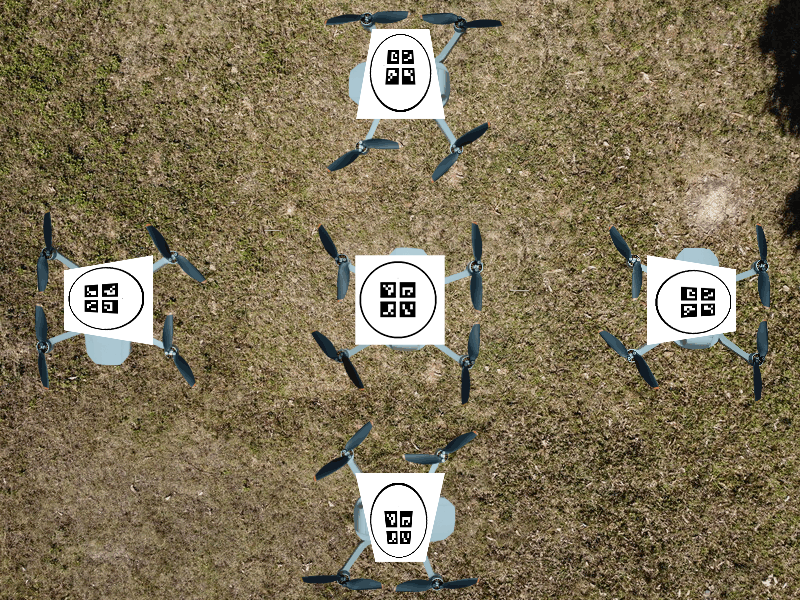
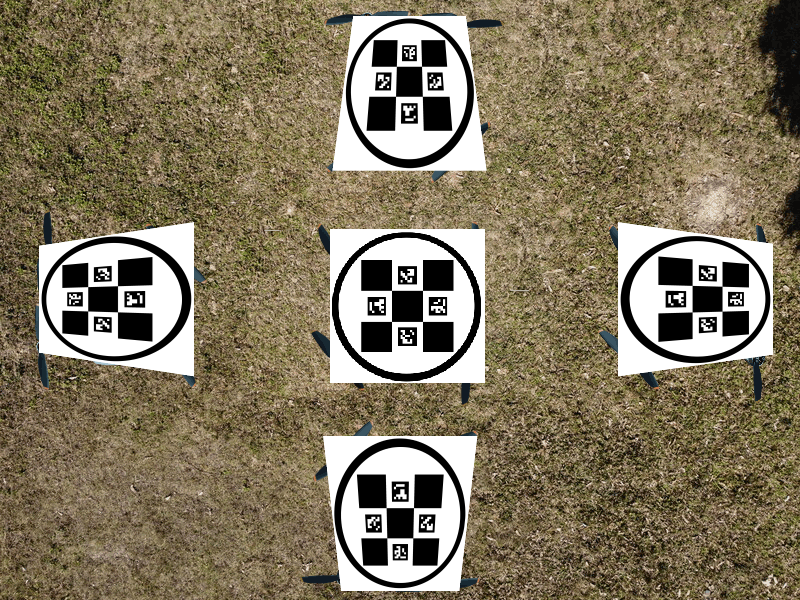
fix

diff --git a/main.cpp b/main.cpp
@@ -1,12 +1,13 @@
 #include <iostream>
+#include <Eigen/Core>
+#include <Eigen/Geometry>
 #include <opencv2/aruco/charuco.hpp>
 #include <opencv2/aruco.hpp>
 #include <opencv2/aruco/dictionary.hpp>
-#include <opencv2/core/core.hpp>
 #include <opencv2/imgproc/imgproc.hpp>
-#include <opencv2/core/types_c.h>
 #include <opencv2/highgui/highgui.hpp>
 #include <opencv2/calib3d.hpp>
+#include <opencv2/core/eigen.hpp>
 #include "ellipse.h"
 #include "aamed/FLED.h"
 
@@ -15,6 +16,41 @@
 using namespace std;
 using namespace cv;
 using namespace dnn;
+
+
+
+double fx = 1518.20343;
+double fy = 1518.20455;
+double cx = 1225.37396;
+double cy = 706.10526 ;
+double k1 = 0.11958819;
+double k2 = 0.08017163;
+double k3 = -0.57926243;
+double p1 = 0.00323947;
+double p2 = -0.00172068;
+// 内参矩阵
+cv::Mat cameraMatrix = (cv::Mat_<float>(3, 3) <<
+                                                fx, 0.0, cx,
+                                                0.0, fy, cy,
+                                                0.0, 0.0, 1.0);
+// 畸变矩阵
+cv::Mat distCoeffs = (cv::Mat_<float>(5, 1) << k1, k2, p1, p2, k3);
+/*************************************预处理******************************************************/
+// 加载用于生成标记的字典。
+Ptr<cv::aruco::Dictionary> dictionary = getPredefinedDictionary(cv::aruco::DICT_6X6_100);
+// board对象指针，在后面有create函数来实际创建
+// 下面这些参数需要用来计算相机位姿
+float squareLength = 0.025;
+float markerLength = 0.015;
+float markerSeparation = 0.005;
+cv::Ptr<cv::aruco::GridBoard> board =  cv::aruco::GridBoard::create(
+        3,             //每行多少个Marker
+        3,             //每列多少个Marker
+        markerLength,          //marker长度, m
+        markerSeparation,           //marker之间的间隔, m
+        dictionary);   //字典
+
+
 
 void siftTest() {
     int64 t1, t2;
@@ -188,6 +224,7 @@ void AAMED_Fled(Mat &imgC, Mat &result, vector<Mat> &results) {
 
     cv::RotatedRect temp;
     Mat mask = Mat::zeros(imgC.size(), CV_8UC1);
+    //results.clear();
     for (int i = 0; i < aamed.detEllipses.size(); i++) {
         Mat mask_temp = Mat::zeros(imgC.size(), CV_8UC1);
         Mat result_temp;
@@ -214,7 +251,6 @@ void AAMED_Fled(Mat &imgC, Mat &result, vector<Mat> &results) {
 
 vector<Mat> generateAruco(int nums, int pixSize=200, int border=1) {
     vector<Mat> markerImages;
-    Ptr<cv::aruco::Dictionary> dictionary = aruco::getPredefinedDictionary(cv::aruco::DICT_4X4_50);
     for (int i = 0; i < nums; ++i) {
         Mat tempImage;
         aruco::drawMarker(dictionary, i, pixSize, tempImage, border);
@@ -225,13 +261,21 @@ vector<Mat> generateAruco(int nums, int pixSize=200, int border=1) {
     return markerImages;
 }
 
-void detectAruco(const Mat& markerImage, vector<vector<Point2f>> &markerCorners, vector<vector<Point2f>> &rejectedCandidates, vector<int> &markerIds, Ptr<cv::aruco::Dictionary> dictionary, cv::Ptr<cv::aruco::GridBoard> board) {
+void detectAruco(const Mat& markerImage, vector<vector<Point2f>> &markerCorners, vector<vector<Point2f>> &rejectedCandidates, vector<int> &markerIds) {
     // 使用默认值初始化检测器参数
     Ptr<cv::aruco::DetectorParameters> parameters = cv::aruco::DetectorParameters::create();
     // 检测标记
     cv::aruco::detectMarkers(markerImage, dictionary, markerCorners, markerIds, parameters, rejectedCandidates);
     // 精细化再检测
-    cv::aruco::refineDetectedMarkers(markerImage, board, markerCorners, markerIds, rejectedCandidates);
+    //cv::aruco::refineDetectedMarkers(markerImage, board, markerCorners, markerIds, rejectedCandidates);
+}
+
+void detectDiamon(Mat& markerImage, vector<vector<Point2f>> &markerCorners, vector<int> &markerIds, vector<vector<Point2f>> &diamondCorners, vector<Vec4i> &diamondIds) {
+    if (markerCorners.empty()) {
+        return;
+    }
+    // detect diamon diamonds
+    cv::aruco::detectCharucoDiamond(markerImage, markerCorners, markerIds, squareLength / markerLength, diamondCorners, diamondIds);
 }
 
 void estimatePose(vector<vector<Point2f>> &markerCorners, vector<int> &markerIds) {
@@ -239,75 +283,65 @@ void estimatePose(vector<vector<Point2f>> &markerCorners, vector<int> &markerIds
     //cv::aruco::estimatePoseBoard(markerCorners, markerIds, board, cameraMatrix, distCoeffs, rvec, tvec);
 }
 
-int main(int argc, char* argv[])
-{
-    // 内参不知道哪个老哥整出来的
-    double fx, fy, cx, cy, k1, k2, k3, p1, p2;
-    fx = 604.5184;
-    fy = 609.43059;
-    cx = 397.4317;
-    cy = 298.7116 ;
-    k1 = 0.0406;
-    k2 = -0.0774;
-    k3 = 0;
-    p1 = 1.8049e-4;
-    p2 = 0;
-    // 内参矩阵
-    cv::Mat cameraMatrix = (cv::Mat_<float>(3, 3) <<
-                                                    fx, 0.0, cx,
-                                                    0.0, fy, cy,
-                                                    0.0, 0.0, 1.0);
-    // 畸变矩阵
-    cv::Mat distCoeffs = (cv::Mat_<float>(5, 1) << k1, k2, p1, p2, k3);
-    /*************************************预处理******************************************************/
-    // 加载用于生成标记的字典。
-    Ptr<cv::aruco::Dictionary> dictionary = getPredefinedDictionary(cv::aruco::DICT_4X4_50);
+void testCamera() {
+    Mat frame;
+    VideoCapture capture;
+    // open the default camera using default API
+    // cap.open(0);
+    // OR advance usage: select any API backend
+    int deviceID = 0;             // 0 = open default camera
+    int apiID = cv::CAP_ANY;      // 0 = autodetect default API
+    // open selected camera using selected API
+    capture.open(deviceID, apiID);
+    // check if we succeeded
+    if (!capture.isOpened()) {
+        cerr << "ERROR! Unable to open camera\n";
+        return;
+    }
+    for (;;) {
+        capture.read(frame);
+        // check if we succeeded
+        if (frame.empty()) {
+            cerr << "ERROR! blank frame grabbed\n";
+            break;
+        }
+        // show live and wait for a key with timeout long enough to show images
+        imshow("Live", frame);
+        if (waitKey(5) >= 0)
+            break;
+    }
+}
 
-    // board对象指针，在后面有create函数来实际创建
-    // 下面这些参数需要用来计算相机位姿
-    cv::Ptr<cv::aruco::GridBoard> board =  cv::aruco::GridBoard::create(
-            2,             //每行多少个Marker
-            2,             //每列多少个Marker
-            0.04,          //marker长度, m
-            0.01,           //marker之间的间隔, m
-            dictionary);   //字典
-    Mat boardImage;
-    board->draw( cv::Size(200, 200),  // 整个board的大小
-                 boardImage,                         // 返回的图像
-                 10,                            // 整个board的边距
-                 1 );                           // 每个码内的边距
-    imwrite("../boardImage.png", boardImage);
 
-    //vector<Mat> markerImages = generateAruco(5);
-    //Mat markerImage = markerImages[0];
-    Mat markerImage = imread("../1.png", 1);
-    Mat markerImageCopy;
-    markerImage.copyTo(markerImageCopy);
-
-    cout<<">> 预处理完成!"<<endl;
-    /************************************************************************************************/
-
+Mat testDetect(Mat &markerImage, bool diamond = true, bool aamed=false) {
     /*************************************检测椭圆*****************************************************/
     // FeaturePoint(img ,img2);
-    //EDCircle(markerImage);
+    // EDCircle(markerImage);
     vector<Mat> results;
     Mat fullSplitImage;
-    AAMED_Fled(markerImage, fullSplitImage, results);
+    if(aamed) {
+        AAMED_Fled(markerImage, fullSplitImage, results);
+    }else {
+        results.emplace_back(markerImage);
+        fullSplitImage = markerImage.clone();
+    }
     /************************************************************************************************/
 
     // 对每个椭圆区域进行检测
-    for (const auto& cropSplitImage: results) {
+    for (auto& cropSplitImage: results) {
         //　检测Aruco
+        vector<vector<Point2f>> diamondCorners;
+        vector<cv::Vec4i> diamondIds;
         vector<vector<Point2f>> markerCorners;
-        vector<vector<Point2f>> rejectedCandidates;
         vector<int> markerIds;
-        // cv::copyMakeBorder(markerImage, markerImage, 5, 5, 5, 5, cv::BORDER_CONSTANT, Scalar(255,0,0));
-        detectAruco(cropSplitImage, markerCorners, rejectedCandidates, markerIds, dictionary, board);
+        vector<vector<Point2f>> rejectedCandidates;
+
+        // cv::copyMakeBorder(cropSplitImage, cropSplitImage, 5, 5, 5, 5, cv::BORDER_CONSTANT, Scalar(255,0,0));
+        detectAruco(cropSplitImage, markerCorners, rejectedCandidates, markerIds);
         if (markerCorners.empty()) {
             cout<<"无可用Marker"<<endl;
-            return 0;
+            return fullSplitImage;
         }
-
         // 显示检测到的但是由于字典对不上被拒绝的Marker
         if (!rejectedCandidates.empty()){
             cout<<"一共有 "<<rejectedCandidates.size()<<" 个被拒绝的 Marker "<<endl;
@@ -317,39 +351,113 @@ int main(int argc, char* argv[])
                 }
             }
         }
+        if(diamond) {
+            detectDiamon(cropSplitImage, markerCorners, markerIds, diamondCorners, diamondIds);
+        }
 
-        // 显示正确的Marker
-        if (!markerIds.empty()) {
+        std::vector<cv::Vec3d> rvecs, tvecs;
+        cv::Vec3d rvec, tvec;
+        if(diamond) {
+            if (diamondIds.empty()) {
+                cout<<"无可用diamondIds"<<endl;
+                continue;
+            }
+            // 绘制检测边框
+            cv::aruco::drawDetectedDiamonds(fullSplitImage, diamondCorners, diamondIds);
+            // 估计相机位姿(相对于每一个marker)  markerLength为什么是squareLength?
+            cv::aruco::estimatePoseSingleMarkers(diamondCorners, markerLength, cameraMatrix, distCoeffs, rvecs, tvecs);
+        }else {
+            if (markerIds.empty()){
+                cout<<"无可用markerIds"<<endl;
+                continue;
+            }
             // 绘制检测边框
             cv::aruco::drawDetectedMarkers(fullSplitImage, markerCorners, markerIds);
-
-            std::vector<cv::Vec3d> rvecs, tvecs;
-            cv::Vec3d rvec, tvec;
             // 估计相机位姿(相对于每一个marker)
-            //cv::aruco::estimatePoseSingleMarkers(markerCorners, 0.055, cameraMatrix, distCoeffs, rvecs, tvecs);
+            // cv::aruco::estimatePoseSingleMarkers(markerCorners, squareLength, cameraMatrix, distCoeffs, rvecs, tvecs);
             // 估计相机位姿(相对于 aruco 板)
             cv::aruco::estimatePoseBoard(markerCorners, markerIds, board, cameraMatrix, distCoeffs, rvec, tvec); rvecs.emplace_back(rvec); tvecs.emplace_back(tvec);
-            // 为每个标记画轴
-            for (int i = 0; i < rvecs.size(); ++i) {
-                rvec = rvecs[i];
-                tvec = tvecs[i];
-                // 得到的位姿估计是：从board坐标系到相机坐标系的
-                cv::Mat R;
-                cv::Rodrigues(rvec,R);
-                cout << "R_{camera<---marker} :" << R << endl;
-                cout << "t_{camera<---marker} :" << tvec << endl;
-                cout << endl;
-                cv::aruco::drawAxis(fullSplitImage, cameraMatrix, distCoeffs, rvec, tvec, 0.1);
-                cv::aruco::drawAxis(markerImage, cameraMatrix, distCoeffs, rvec, tvec, 0.1);
-            }
+        }
+        // 为每个标记画轴
+        for (int i = 0; i < rvecs.size(); ++i) {
+            rvec = rvecs[i];
+            tvec = tvecs[i];
+            // 得到的位姿估计是：从board坐标系到相机坐标系的
+            cv::Mat R;
+            cv::Rodrigues(rvec,R);
+            cout << "R_{camera<---marker} :" << R << endl;
+            cout << "t_{camera<---marker} :" << tvec << endl;
+            Eigen::Matrix3d R_eigen;
+            cv::cv2eigen(R,R_eigen);
+            // Eigen中使用右乘的顺序, 因此ZYX对应的是012, 实际上这个编号跟乘法的顺序一致就可以了(从左向右看的顺序)
+            Eigen::Vector3d zyx_Euler_fromR = R_eigen.eulerAngles(0,1,2);
+            cout << "zyx旋转欧拉角[输出顺序为:x,y,z]: " << (180)/(M_PI)*zyx_Euler_fromR.transpose()<<endl;
+            cv::aruco::drawAxis(fullSplitImage, cameraMatrix, distCoeffs, rvec, tvec, 0.1);
+            //cv::aruco::drawAxis(markerImage, cameraMatrix, distCoeffs, rvec, tvec, 0.1);
+            cout << "--------------------------------------------" << endl;
         }
     }
 
-    imshow("markerImage", markerImage);
-    imshow("fullSplitImage", fullSplitImage);
+    if (aamed) {
+        imshow("markerImage", markerImage);
+        //imshow("fullSplitImage", fullSplitImage);
+        //imwrite("../fullSplitImage.png", fullSplitImage);
+    }
+    // waitKey(0);
+    return fullSplitImage;
+}
 
-    // imwrite("../markerImage.png", markerImage);
+int main(int argc, char* argv[])
+{
+    Mat fullSplitImage;
+    Mat boardImage;
+    board->draw( cv::Size(200, 200),  // 整个board的大小
+                 boardImage,                         // 返回的图像
+                 10,                            // 整个board的边距
+                 1 );                           // 每个码内的边距
+    imwrite("../boardImage.png", boardImage);
+    cv::aruco::drawCharucoDiamond(dictionary, cv::Vec4i(0,1,2,3), 200, 150, boardImage);
+    imwrite("../diamondImage.png", boardImage);
+    //vector<Mat> markerImages = generateAruco(5);
+    //Mat markerImage = markerImages[0];
+    cout<<">> 预处理完成!"<<endl;
+
+    /*
+    Mat markerImage = imread("../1.png", 1);
+    fullSplitImage = testDetect(markerImage, true, false);
+    imshow("fullSplitImage", fullSplitImage);
     waitKey(0);
+    return 0;
+    */
+
+    /************************************************************************************************/
+    float t1, t2, tdelt;
+    Mat frame;
+    VideoCapture capture;
+    capture.open(0);
+    if (!capture.isOpened()) {
+        cerr << "ERROR! Unable to open camera\n";
+        return -1;
+    }
+
+    cv::namedWindow("fullSplitImage",0);
+    cv::resizeWindow("fullSplitImage", 960, 540);
+    for (;;) {
+        capture.read(frame);
+        if (frame.empty()) {
+            cerr << "ERROR! blank frame grabbed\n";
+            break;
+        }
+        t1 = cv::getTickCount();
+        fullSplitImage = testDetect(frame, true, false);
+        t2 = cv::getTickCount();
+        tdelt = 1000.0*(t2-t1) / cv::getTickFrequency();
+        std::cout << "一帧耗时(ms)：" << tdelt << std::endl;
+        imshow("fullSplitImage", fullSplitImage.empty() ? frame : fullSplitImage);
+        if (waitKey(1) >= 0)
+            break;
+    }
+
     return 0;
 }
 
